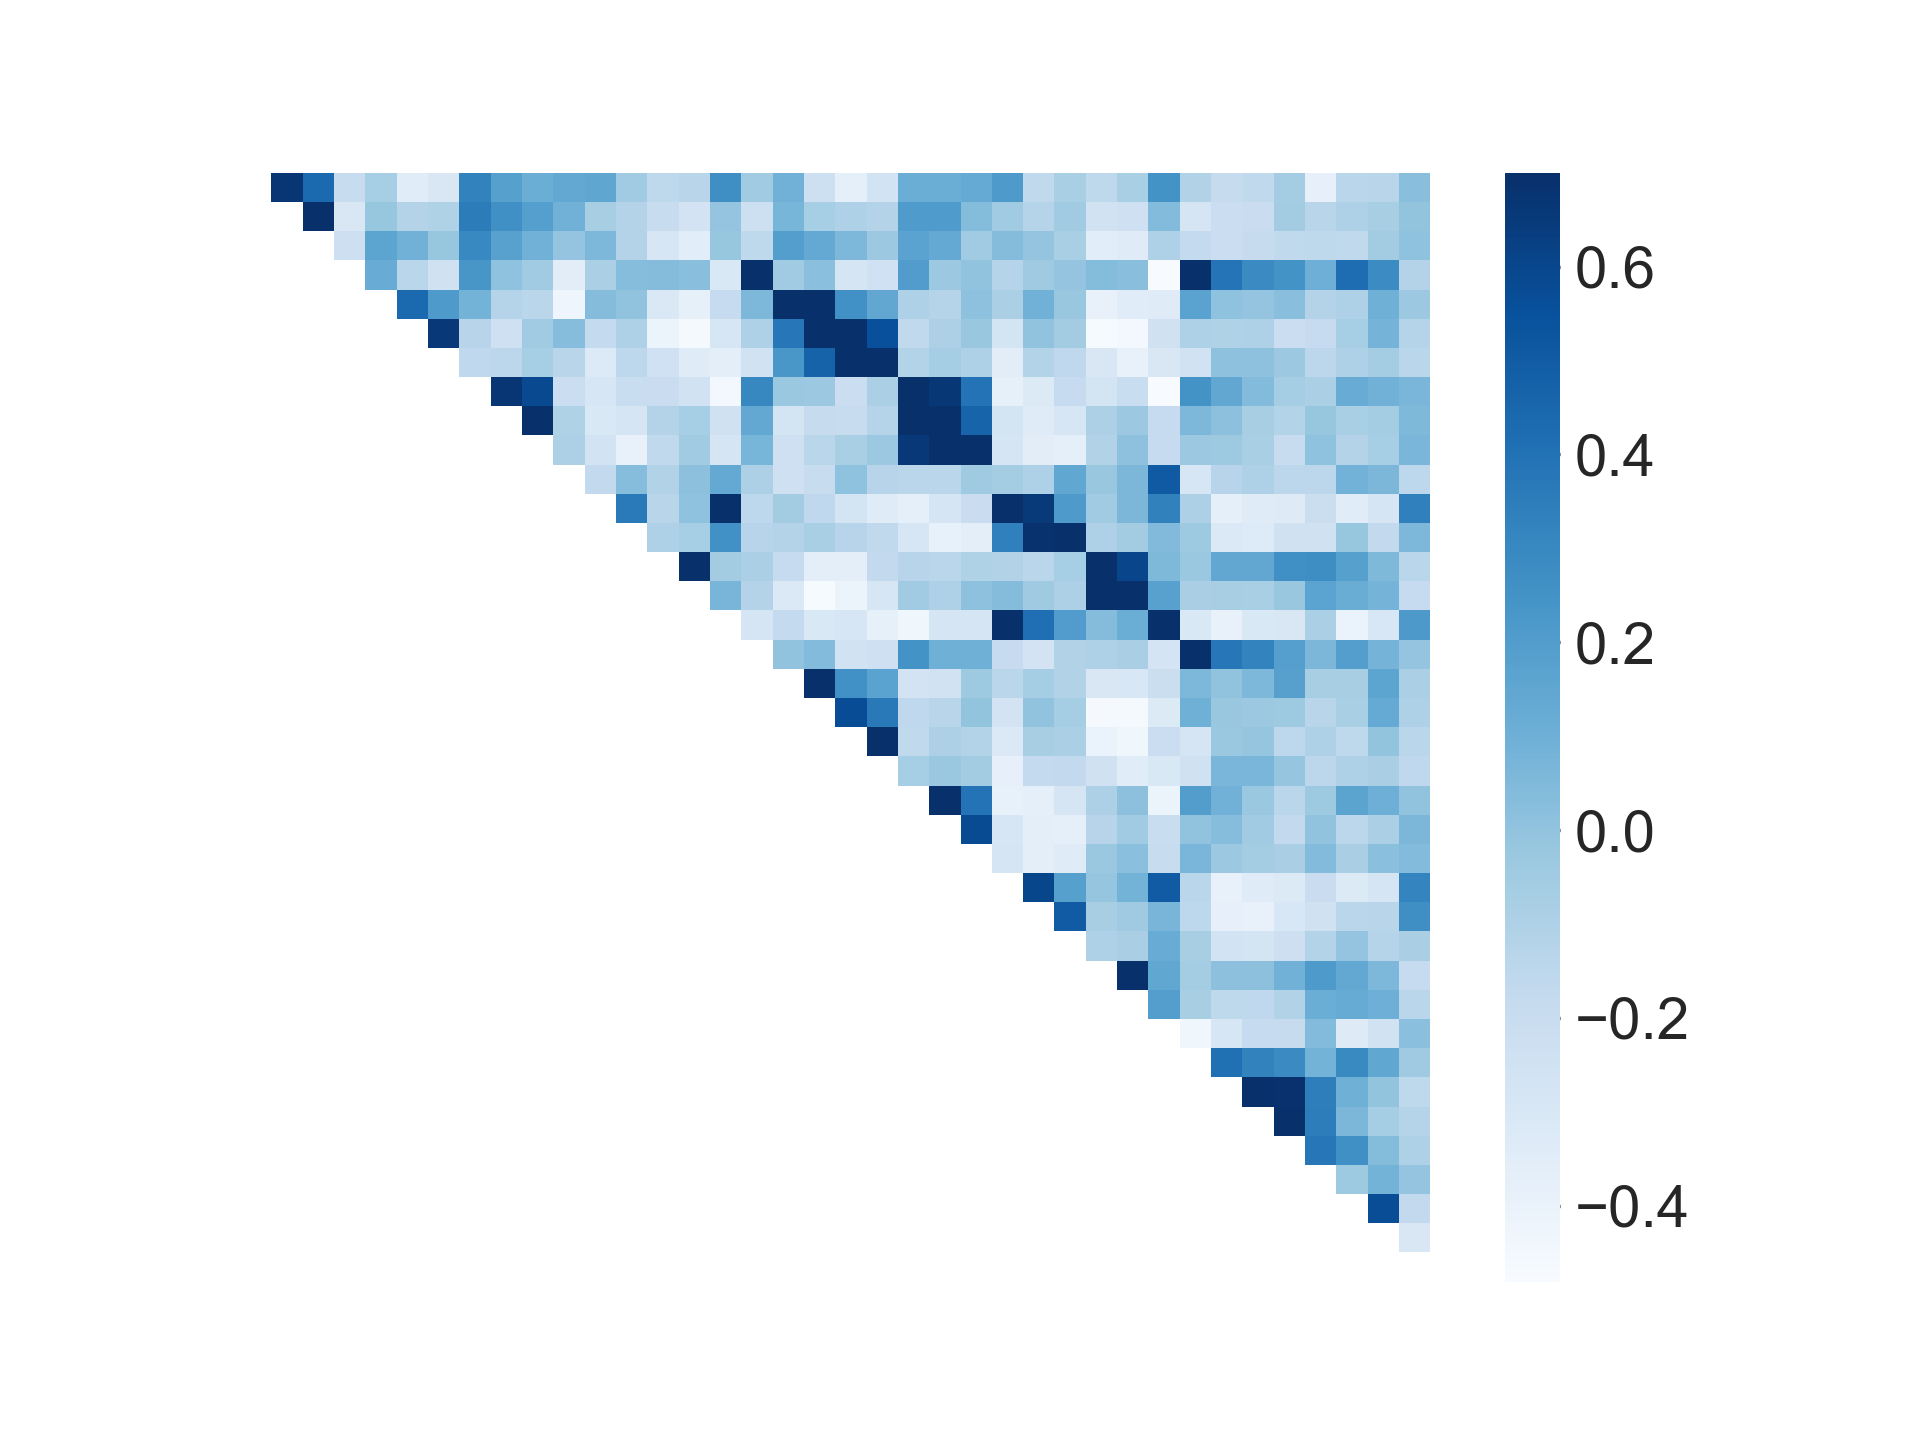
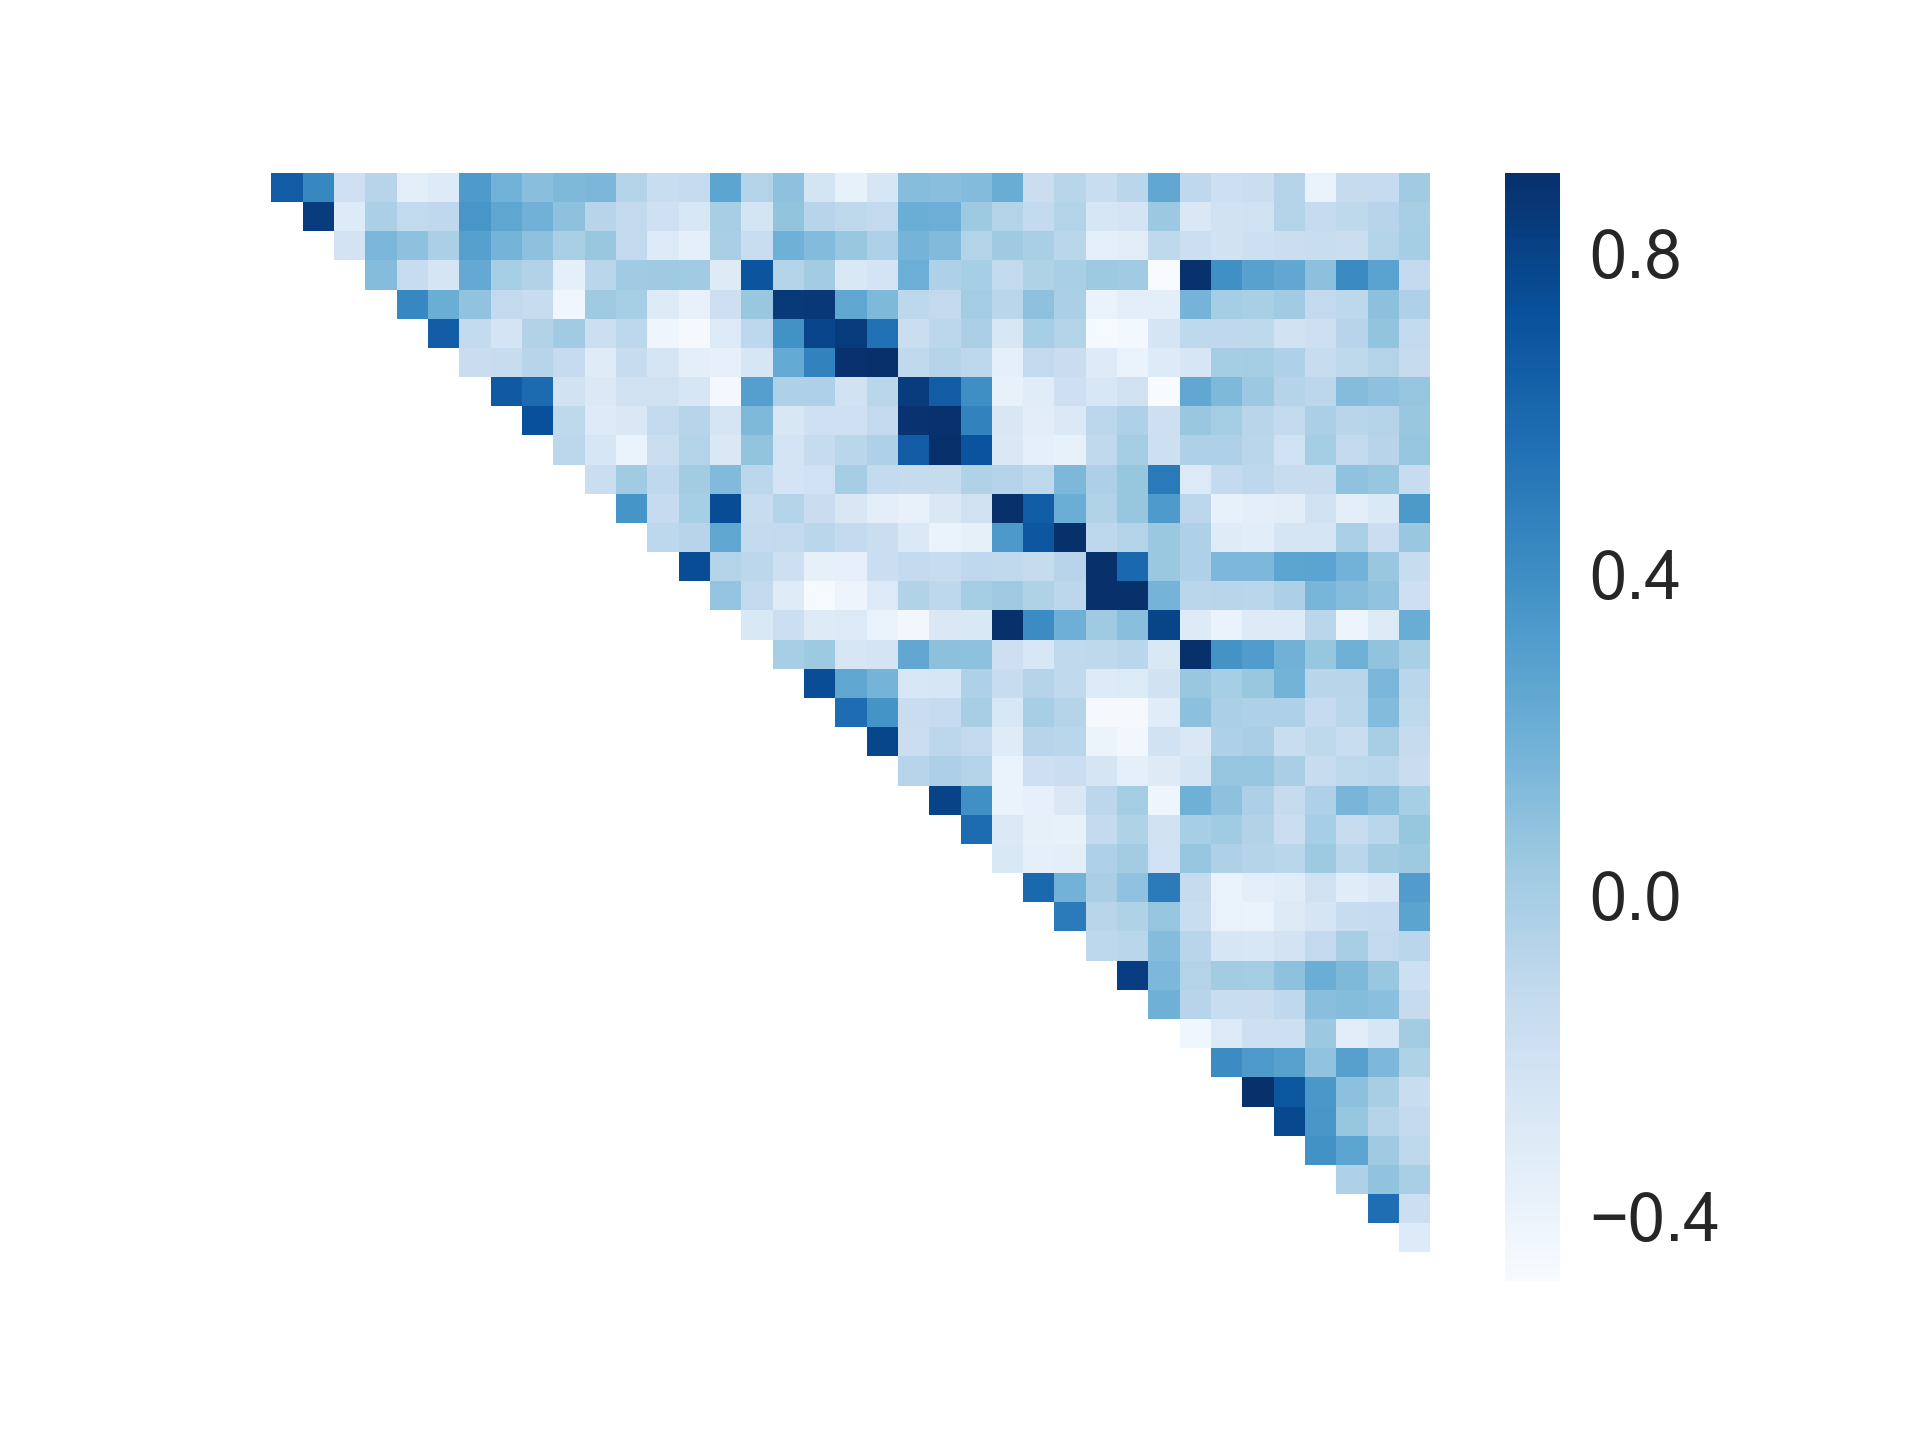
linechart

diff --git a/data_processing/MakeHotMatrices/matrices_1/hotmatrices_mask_1.py b/data_processing/MakeHotMatrices/matrices_1/hotmatrices_mask_1.py
@@ -14,11 +14,12 @@ mask = np.zeros_like(m1_np)
 mask[np.triu_indices_from(mask)] = True
 with sns.axes_style("white"):
     ax = sns.heatmap(m1_np,xticklabels= False,yticklabels= False,vmax=1,mask=mask,annot=False,cmap="Blues",
+                     cbar_kws={'ticks':[-0.2,0.2,0.6,1.0]}
         )
     #设置colorbar字体大小
     cbar = ax.collections[0].colorbar
 
-    cbar.ax.tick_params(labelsize=14,direction='in',top='off', bottom='off', left='off', right='off')  #direction='in' 标签位置
+    cbar.ax.tick_params(labelsize=16, left=False,right=False)  #direction='in' 标签位置
     plt.savefig('a.png',dpi=300)
     plt.show()
 
@@ -29,9 +30,11 @@ mask = np.zeros_like(m2_np)
 #将mask的对角线及以上设置为True#这部分就是对应要被遮掉的部分
 mask[np.tril_indices_from(mask)] = True
 with sns.axes_style("white"):
-    ax = sns.heatmap(m2_np, xticklabels=False, yticklabels=False,vmax=0.7, mask=mask,annot=False,cmap="Blues")
+    ax = sns.heatmap(m2_np, xticklabels=False, yticklabels=False,vmax=0.9,mask=mask,annot=False,cmap="Blues",
+                    cbar_kws = {'ticks': [-0.4, 0.0, 0.4, 0.8]}
+                     )
     cbar_2 = ax.collections[0].colorbar
-    cbar_2.ax.tick_params(labelsize=14,direction='in',top='off', bottom='off', left='off', right='off')
+    cbar_2.ax.tick_params(labelsize=16, left=False, right=False)
     #plt.figure(dpi=300, figsize=(4, 3))
     plt.savefig('b.png',dpi=300)
     plt.show()
